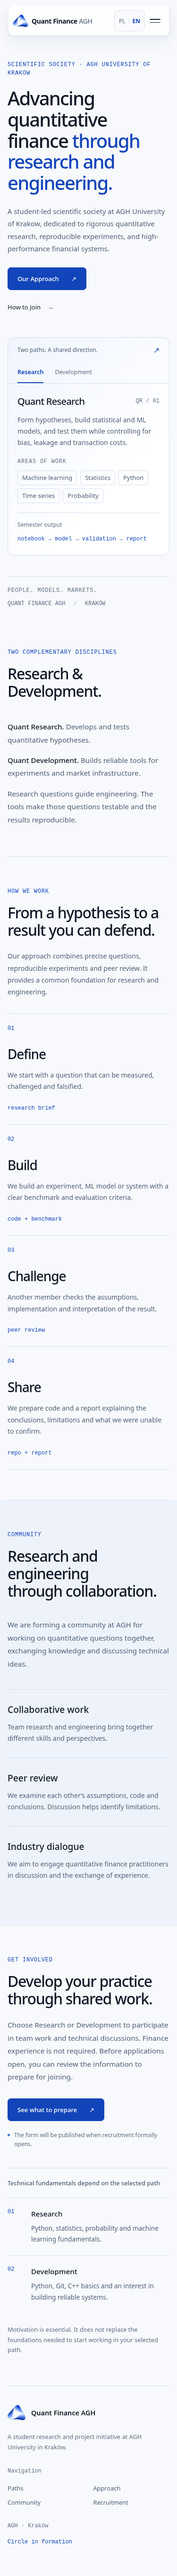
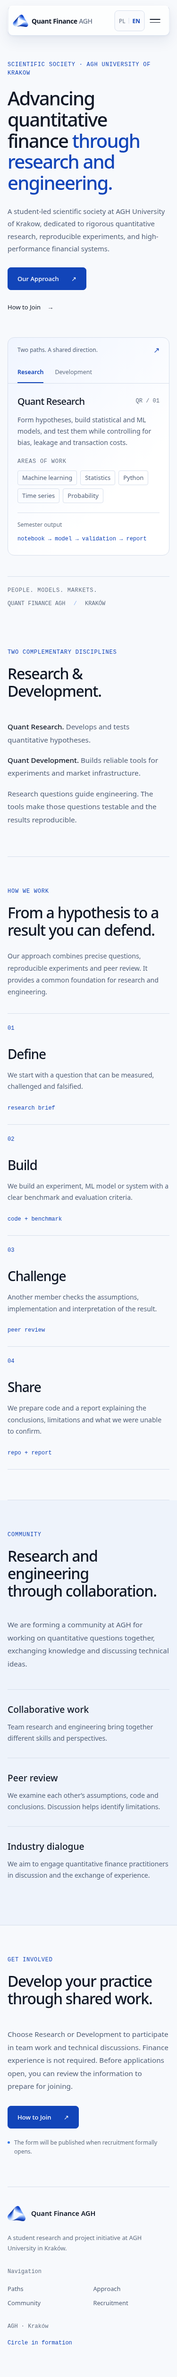
Polish recruitment layout and navigation glass edges

diff --git a/src/styles.css b/src/styles.css
@@ -49,7 +49,7 @@ a { color: inherit; }
 
 /* Glass is limited to navigation. Opaque materials are the default fallback. */
 .site-header { position: fixed; z-index: 100; top: 24px; left: 50%; width: var(--shell); transform: translateX(-50%); }
-.site-header__material { position: relative; z-index: 2; min-height: 72px; display: flex; align-items: center; justify-content: space-between; gap: 24px; padding: 10px 22px; border: 1px solid rgb(118 145 188 / 28%); border-top-color: rgb(255 255 255 / 90%); border-radius: var(--radius); background: var(--surface); box-shadow: 0 3px 12px rgb(25 53 100 / 4%), 0 14px 32px rgb(25 53 100 / 6%), inset 0 1px 0 rgb(255 255 255 / 65%); }
+.site-header__material { position: relative; z-index: 2; min-height: 72px; display: flex; align-items: center; justify-content: space-between; gap: 24px; padding: 10px 22px; border: 1px solid rgb(118 145 188 / 28%); border-top-color: rgb(255 255 255 / 96%); border-radius: var(--radius); background: var(--surface); box-shadow: 0 2px 6px rgb(25 53 100 / 4%), 0 12px 28px rgb(25 53 100 / 8%), inset 0 1px 0 rgb(255 255 255 / 82%), inset 0 -1px 0 rgb(118 145 188 / 8%); }
 .brand { display: inline-flex; align-items: center; gap: 12px; text-decoration: none; white-space: nowrap; }
 .brand__symbol { width: 48px; height: 41px; object-fit: contain; }
 .brand strong { font-size: 1.0625rem; letter-spacing: -.025em; font-weight: 650; }
@@ -112,7 +112,7 @@ a { color: inherit; }
 .disciplines__copy strong { color: var(--ink); font-weight: 550; }
 .section-block { padding-block: var(--space-7); }
 .section-heading { display: grid; grid-template-columns: 1.12fr .88fr; align-items: end; gap: 64px; margin-bottom: 40px; }
-.disciplines h2, .section-heading h2, .community__statement h2, .recruitment__copy h2 { max-width: 720px; margin: 18px 0 0; font-size: clamp(2rem, 3vw, 2.5rem); line-height: 1.15; letter-spacing: -.04em; font-weight: 520; text-wrap: balance; }
+.disciplines h2, .section-heading h2, .community__statement h2, .recruitment__heading h2 { max-width: 720px; margin: 18px 0 0; font-size: clamp(2rem, 3vw, 2.5rem); line-height: 1.15; letter-spacing: -.04em; font-weight: 520; text-wrap: balance; }
 .section-description { max-width: 480px; margin: 0; color: var(--muted); font-size: .88rem; line-height: 1.8; }
 .research-cycle { border-bottom: 1px solid var(--line); }
 .work-process { display: grid; grid-template-columns: repeat(4, minmax(0, 1fr)); margin: 0; padding: 0; border-block: 1px solid var(--line); list-style: none; }
@@ -135,16 +135,10 @@ a { color: inherit; }
 .community-pillars p { margin: 0; color: var(--muted); font-size: .875rem; line-height: 1.75; }
 .recruitment { position: relative; padding-block: var(--space-7); }
 .recruitment__inner { display: grid; grid-template-columns: 1.12fr .88fr; gap: 64px; align-items: start; }
-.recruitment__copy > p:not(.eyebrow) { max-width: 620px; margin: 24px 0 32px; color: var(--muted); font-size: .95rem; line-height: 1.8; }
+.recruitment__copy { padding-top: 4px; }
+.recruitment__copy > p { max-width: 480px; margin: 0 0 28px; color: var(--muted); font-size: .95rem; line-height: 1.8; }
 .form-status { display: flex; align-items: flex-start; gap: 9px; margin-top: 20px; color: var(--quiet); font-size: .75rem; line-height: 1.6; }
 .form-status i { flex: 0 0 5px; height: 5px; border-radius: 50%; margin-top: 7px; background: var(--blue-cobalt); }
-.requirements { border-top: 1px solid var(--line); }
-.requirements > h3 { margin: 0; padding: 22px 0; color: var(--muted); font-size: .8rem; font-weight: 500; }
-.requirements article { display: grid; grid-template-columns: 32px 1fr; gap: 18px; padding: 22px 0; border-top: 1px solid var(--line); }
-.requirements article > span { color: var(--accent); font: .75rem var(--mono); }
-.requirements strong { font-size: .95rem; font-weight: 550; }
-.requirements article p { margin: 8px 0 0; color: var(--muted); font-size: .85rem; line-height: 1.75; }
-.requirements__note { margin: 24px 0 0; color: var(--quiet); font-size: .8rem; line-height: 1.7; }
 .sheet-scrim { position: fixed; z-index: 190; inset: 0; border: 0; background: rgb(16 24 39 / 35%); opacity: 0; pointer-events: none; transition: opacity 180ms ease; }
 .sheet-scrim[data-open] { opacity: 1; pointer-events: auto; }
 .application-sheet { position: fixed; z-index: 200; left: 50%; bottom: 16px; width: min(860px, calc(100% - 32px)); max-height: calc(100dvh - 40px); overflow-y: auto; padding: 34px; border: 1px solid var(--line); border-radius: 20px; background: var(--surface); box-shadow: 0 24px 80px rgb(16 24 39 / 15%); opacity: 0; pointer-events: none; visibility: hidden; transform: translate(-50%, 16px); transition: opacity 180ms ease, transform 180ms ease; }
@@ -237,7 +231,7 @@ a { color: inherit; }
   .path-panel { padding: 24px 20px; }
   .path-output strong { font-size: .75rem; }
   .section-heading { margin-bottom: 32px; }
-  .disciplines h2, .section-heading h2, .community__statement h2, .recruitment__copy h2 { font-size: 2rem; }
+  .disciplines h2, .section-heading h2, .community__statement h2, .recruitment__heading h2 { font-size: 2rem; }
   .work-process { grid-template-columns: 1fr; }
   .work-step, .work-step:first-child, .work-step:last-child { min-height: 0; padding: 24px 0; border-right: 0; }
   .work-step:nth-last-child(2) { border-bottom: 1px solid var(--line); }

diff --git a/src/content.ts b/src/content.ts
@@ -80,12 +80,6 @@ export type SiteCopy = {
     sheetTitle: string;
     sheetDescription: string;
     items: Array<{ index: string; title: string; description: string }>;
-    requirementsTitle: string;
-    researchTitle: string;
-    researchRequirements: string;
-    developmentTitle: string;
-    developmentRequirements: string;
-    footerNote: string;
   };
   footer: {
     description: string;
@@ -188,7 +182,7 @@ export const siteCopy: Record<Language, SiteCopy> = {
       title: "Rozwijaj swój warsztat we wspólnej pracy.",
       description: "Wybierz Research lub Development, aby uczestniczyć w pracy zespołowej i dyskusjach technicznych. Doświadczenie w finansach nie jest wymagane. Zanim uruchomimy nabór, możesz zapoznać się z informacjami potrzebnymi do zgłoszenia.",
       formLabel: "Formularz zostanie opublikowany po formalnym uruchomieniu naboru.",
-      previewAction: "Zobacz, co przygotować",
+      previewAction: "Jak dołączyć",
       closePreview: "Zamknij",
       sheetEyebrow: "Przygotowanie zgłoszenia",
       sheetTitle: "Cztery rzeczy, które chcemy o Tobie wiedzieć.",
@@ -199,12 +193,6 @@ export const siteCopy: Record<Language, SiteCopy> = {
         { index: "03", title: "Realizowane projekty", description: "Opisz problem, swój wkład, użyte narzędzia oraz najważniejszą lekcję." },
         { index: "04", title: "Motywacja", description: "Wyjaśnij, dlaczego chcesz dołączyć właśnie do AGH Quant Finance." },
       ],
-      requirementsTitle: "Techniczne podstawy zależą od wybranej ścieżki",
-      researchTitle: "Research",
-      researchRequirements: "Python, statystyka, prawdopodobieństwo i podstawy machine learningu.",
-      developmentTitle: "Development",
-      developmentRequirements: "Python, Git, podstawy C++ i zainteresowanie budową niezawodnych systemów.",
-      footerNote: "Motywacja jest konieczna. Nie zastępuje jednak podstaw potrzebnych do rozpoczęcia pracy w wybranej ścieżce.",
     },
     footer: {
       description: "Studencka inicjatywa badawczo-projektowa na AGH w Krakowie.",
@@ -305,7 +293,7 @@ export const siteCopy: Record<Language, SiteCopy> = {
       title: "Develop your practice through shared work.",
       description: "Choose Research or Development to participate in team work and technical discussions. Finance experience is not required. Before applications open, you can review the information to prepare for joining.",
       formLabel: "The form will be published when recruitment formally opens.",
-      previewAction: "See what to prepare",
+      previewAction: "How to Join",
       closePreview: "Close",
       sheetEyebrow: "Application preparation",
       sheetTitle: "Four things we want to know about you.",
@@ -316,12 +304,6 @@ export const siteCopy: Record<Language, SiteCopy> = {
         { index: "03", title: "Projects", description: "Describe the problem, your contribution, the tools used and the most important lesson." },
         { index: "04", title: "Motivation", description: "Explain why you want to join AGH Quant Finance specifically." },
       ],
-      requirementsTitle: "Technical fundamentals depend on the selected path",
-      researchTitle: "Research",
-      researchRequirements: "Python, statistics, probability and machine learning fundamentals.",
-      developmentTitle: "Development",
-      developmentRequirements: "Python, Git, C++ basics and an interest in building reliable systems.",
-      footerNote: "Motivation is essential. It does not replace the foundations needed to start working in your selected path.",
     },
     footer: {
       description: "A student research and project initiative at AGH University in Kraków.",

diff --git a/src/components/Recruitment.tsx b/src/components/Recruitment.tsx
@@ -56,9 +56,11 @@ export function Recruitment({ copy }: RecruitmentProps) {
   return (
     <section className="recruitment" id="recruitment" tabIndex={-1} aria-labelledby="recruitment-title">
       <div className="recruitment__inner shell">
-        <div className="recruitment__copy" data-reveal>
+        <div className="recruitment__heading" data-reveal>
           <p className="eyebrow">{copy.eyebrow}</p>
           <h2 id="recruitment-title">{copy.title}</h2>
+        </div>
+        <div className="recruitment__copy" data-reveal>
           <p>{copy.description}</p>
           <button
             className="primary-button pressable"
@@ -71,13 +73,6 @@ export function Recruitment({ copy }: RecruitmentProps) {
             {copy.previewAction}<span aria-hidden="true">↗</span>
           </button>
           <span className="form-status"><i aria-hidden="true" />{copy.formLabel}</span>
-        </div>
-
-        <div className="requirements" data-reveal>
-          <h3>{copy.requirementsTitle}</h3>
-          <article><span>01</span><div><strong>{copy.researchTitle}</strong><p>{copy.researchRequirements}</p></div></article>
-          <article><span>02</span><div><strong>{copy.developmentTitle}</strong><p>{copy.developmentRequirements}</p></div></article>
-          <p className="requirements__note">{copy.footerNote}</p>
         </div>
       </div>
 

diff --git a/docs/phase-2-review.md b/docs/phase-2-review.md
@@ -10,7 +10,9 @@ Lower sections share aligned heading and text columns, a restrained type scale, 
 
 Header and footer links are Paths / Approach / Community / Recruitment, with Polish equivalents. The hero's primary CTA is Our Approach (`#approach`); How to Join still leads to the recruitment preparation section. All section links resolve to focusable targets below the floating navigation. No active UI links to the removed project section.
 
-Community focuses on collaborative research and engineering, peer review, discussion, and the ambition to engage practitioners. It makes no claim of established partnerships. Get Involved explains participation and keeps the existing application preparation preview, including its inactive-form notice.
+Community focuses on collaborative research and engineering, peer review, discussion, and the ambition to engage practitioners. It makes no claim of established partnerships. Get Involved pairs a prominent heading with a short description, the bilingual How to Join button and application-status notice. The redundant path requirements, their copy fields and styles have been removed. The preparation dialog, its contents, focus containment/restoration, Escape handling and scroll lock are unchanged.
+
+The final polish adds a slightly clearer translucent top edge and softer layered depth to the floating navbar. Its approved transparency and 16px blur remain unchanged, as do the solid material fallbacks. No additional glass surfaces or animations were introduced; all other sections and their bilingual copy are preserved.
 
 English remains the default for new visitors. Explicit saved PL/EN preferences remain functional, including when browser storage is unavailable. No dependencies or routes were added.
 
@@ -54,7 +56,7 @@ Full-page captures use 1440 × 1000 and 375 × 1000 browser viewports. Image hei
 | English | [Desktop](screenshots/final/en-desktop-full.png) | [Mobile](screenshots/final/en-mobile-full.png) |
 | Polish | [Desktop](screenshots/final/pl-desktop-full.png) | [Mobile](screenshots/final/pl-mobile-full.png) |
 
-[Desktop after scrolling: navigation glass over page content](screenshots/final/en-desktop-scrolled.png).
+Desktop after scrolling, with navigation glass over page content: [English](screenshots/final/en-desktop-scrolled.png) · [Polish](screenshots/final/pl-desktop-scrolled.png).
 
 | Previous catalogue composition | Final institutional composition |
 | --- | --- |
